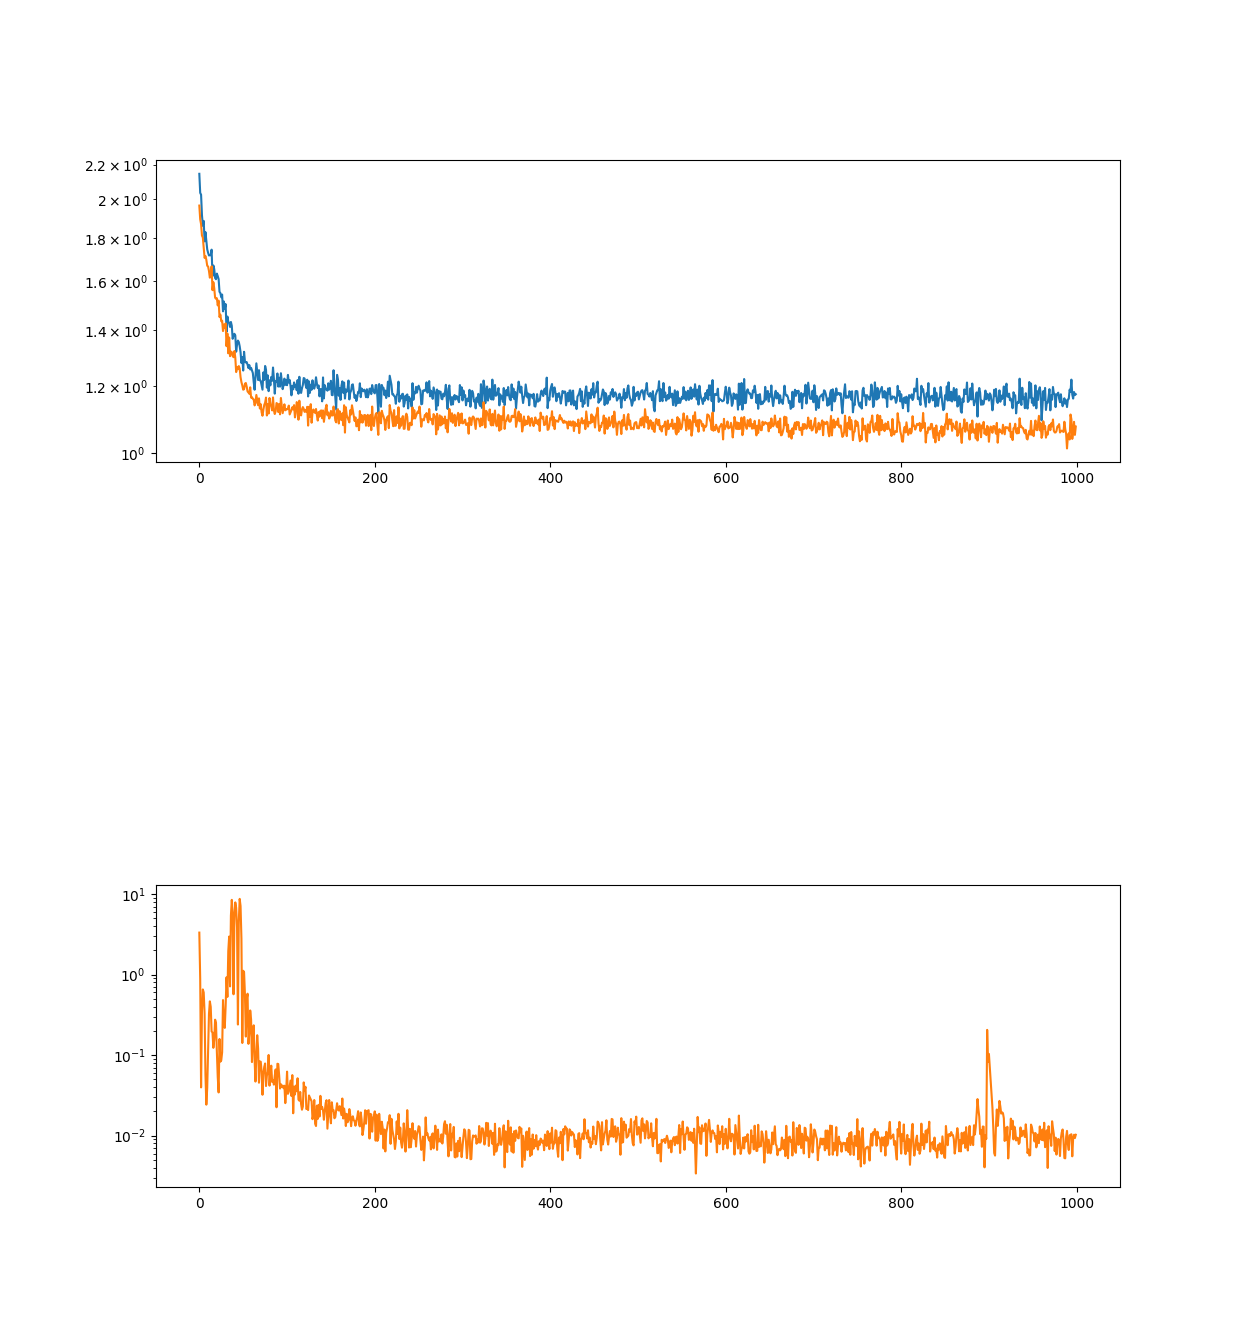
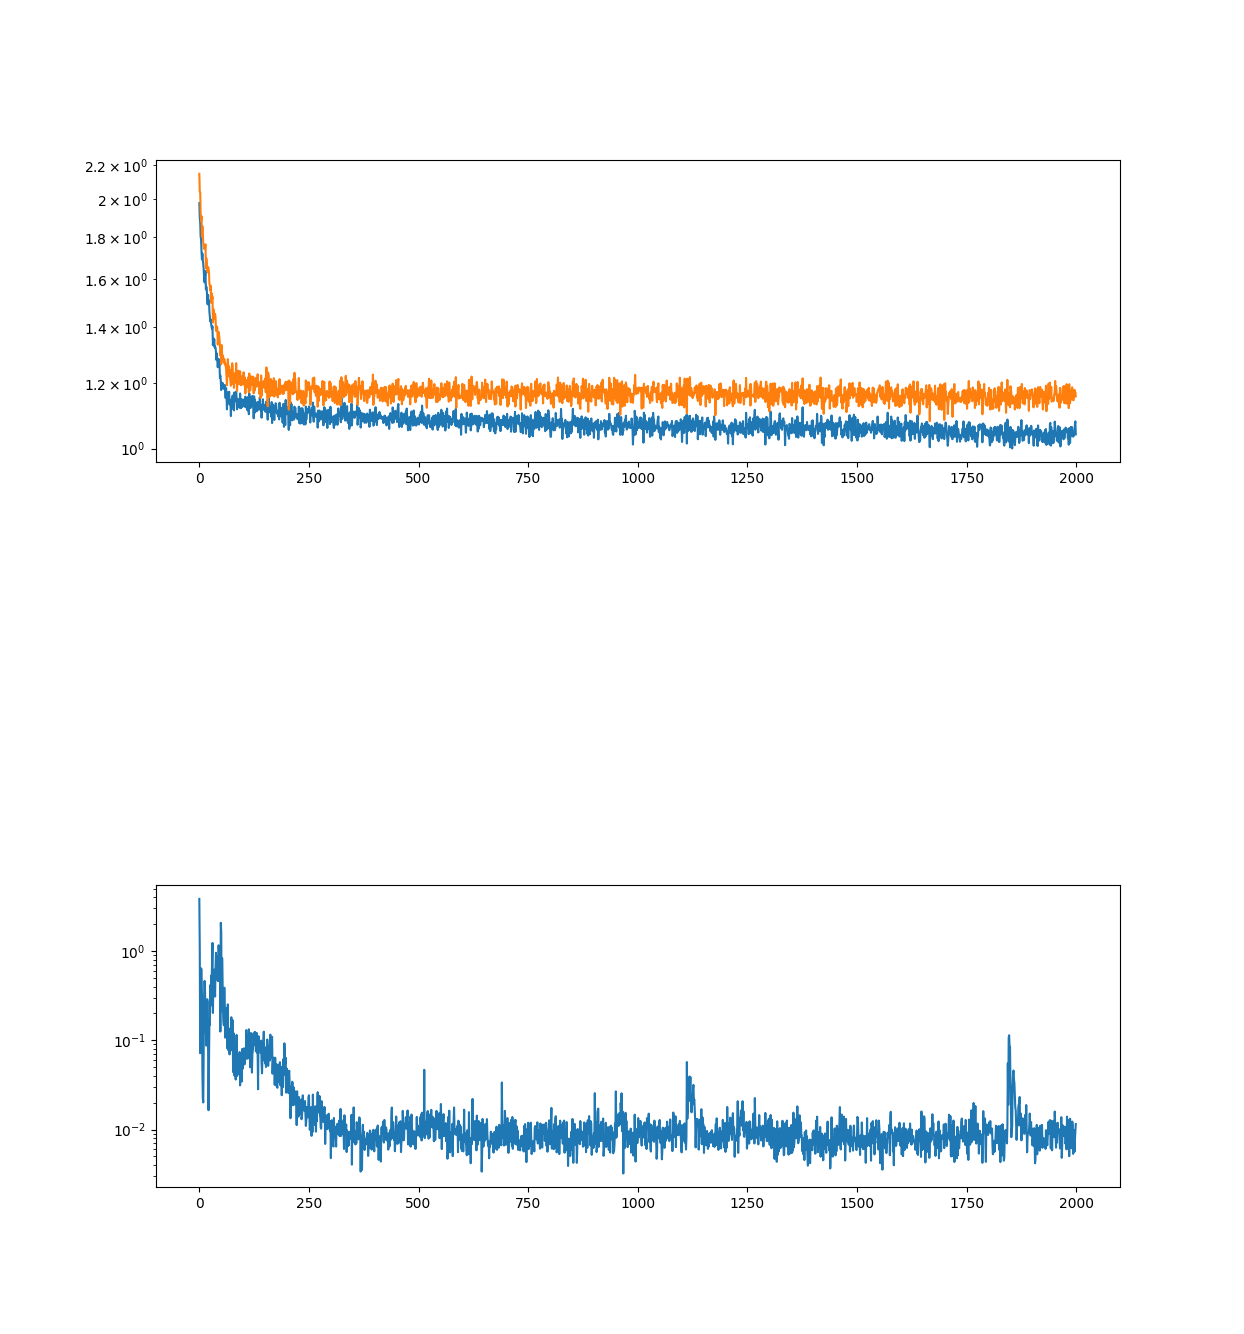
finished first draft

diff --git a/__main__.py b/__main__.py
@@ -60,8 +60,8 @@ def main():
         batch_size=batch_size
     )
 
-    for i in range(1000):
-        loss = trainer.train_step()
+    for i in range(2000):
+        loss = trainer.train_step_2()
         print(loss)
 
 
